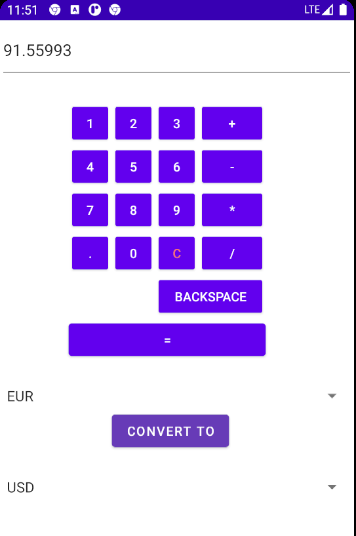
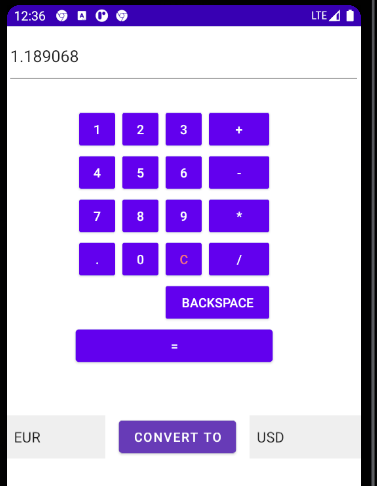
Rearranged currency buttons

diff --git a/README.md b/README.md
@@ -5,7 +5,7 @@ Simple Android calculator that supports currency conversion
 <li>Supports only basic arithmetic operations</li>
 </p>
 
-![](Gui.png)
+![alt text](https://github.com/Gitthod/CurrencyCalculator/blob/master/Gui.PNG?raw=true)
 
 ## Documentation
 
